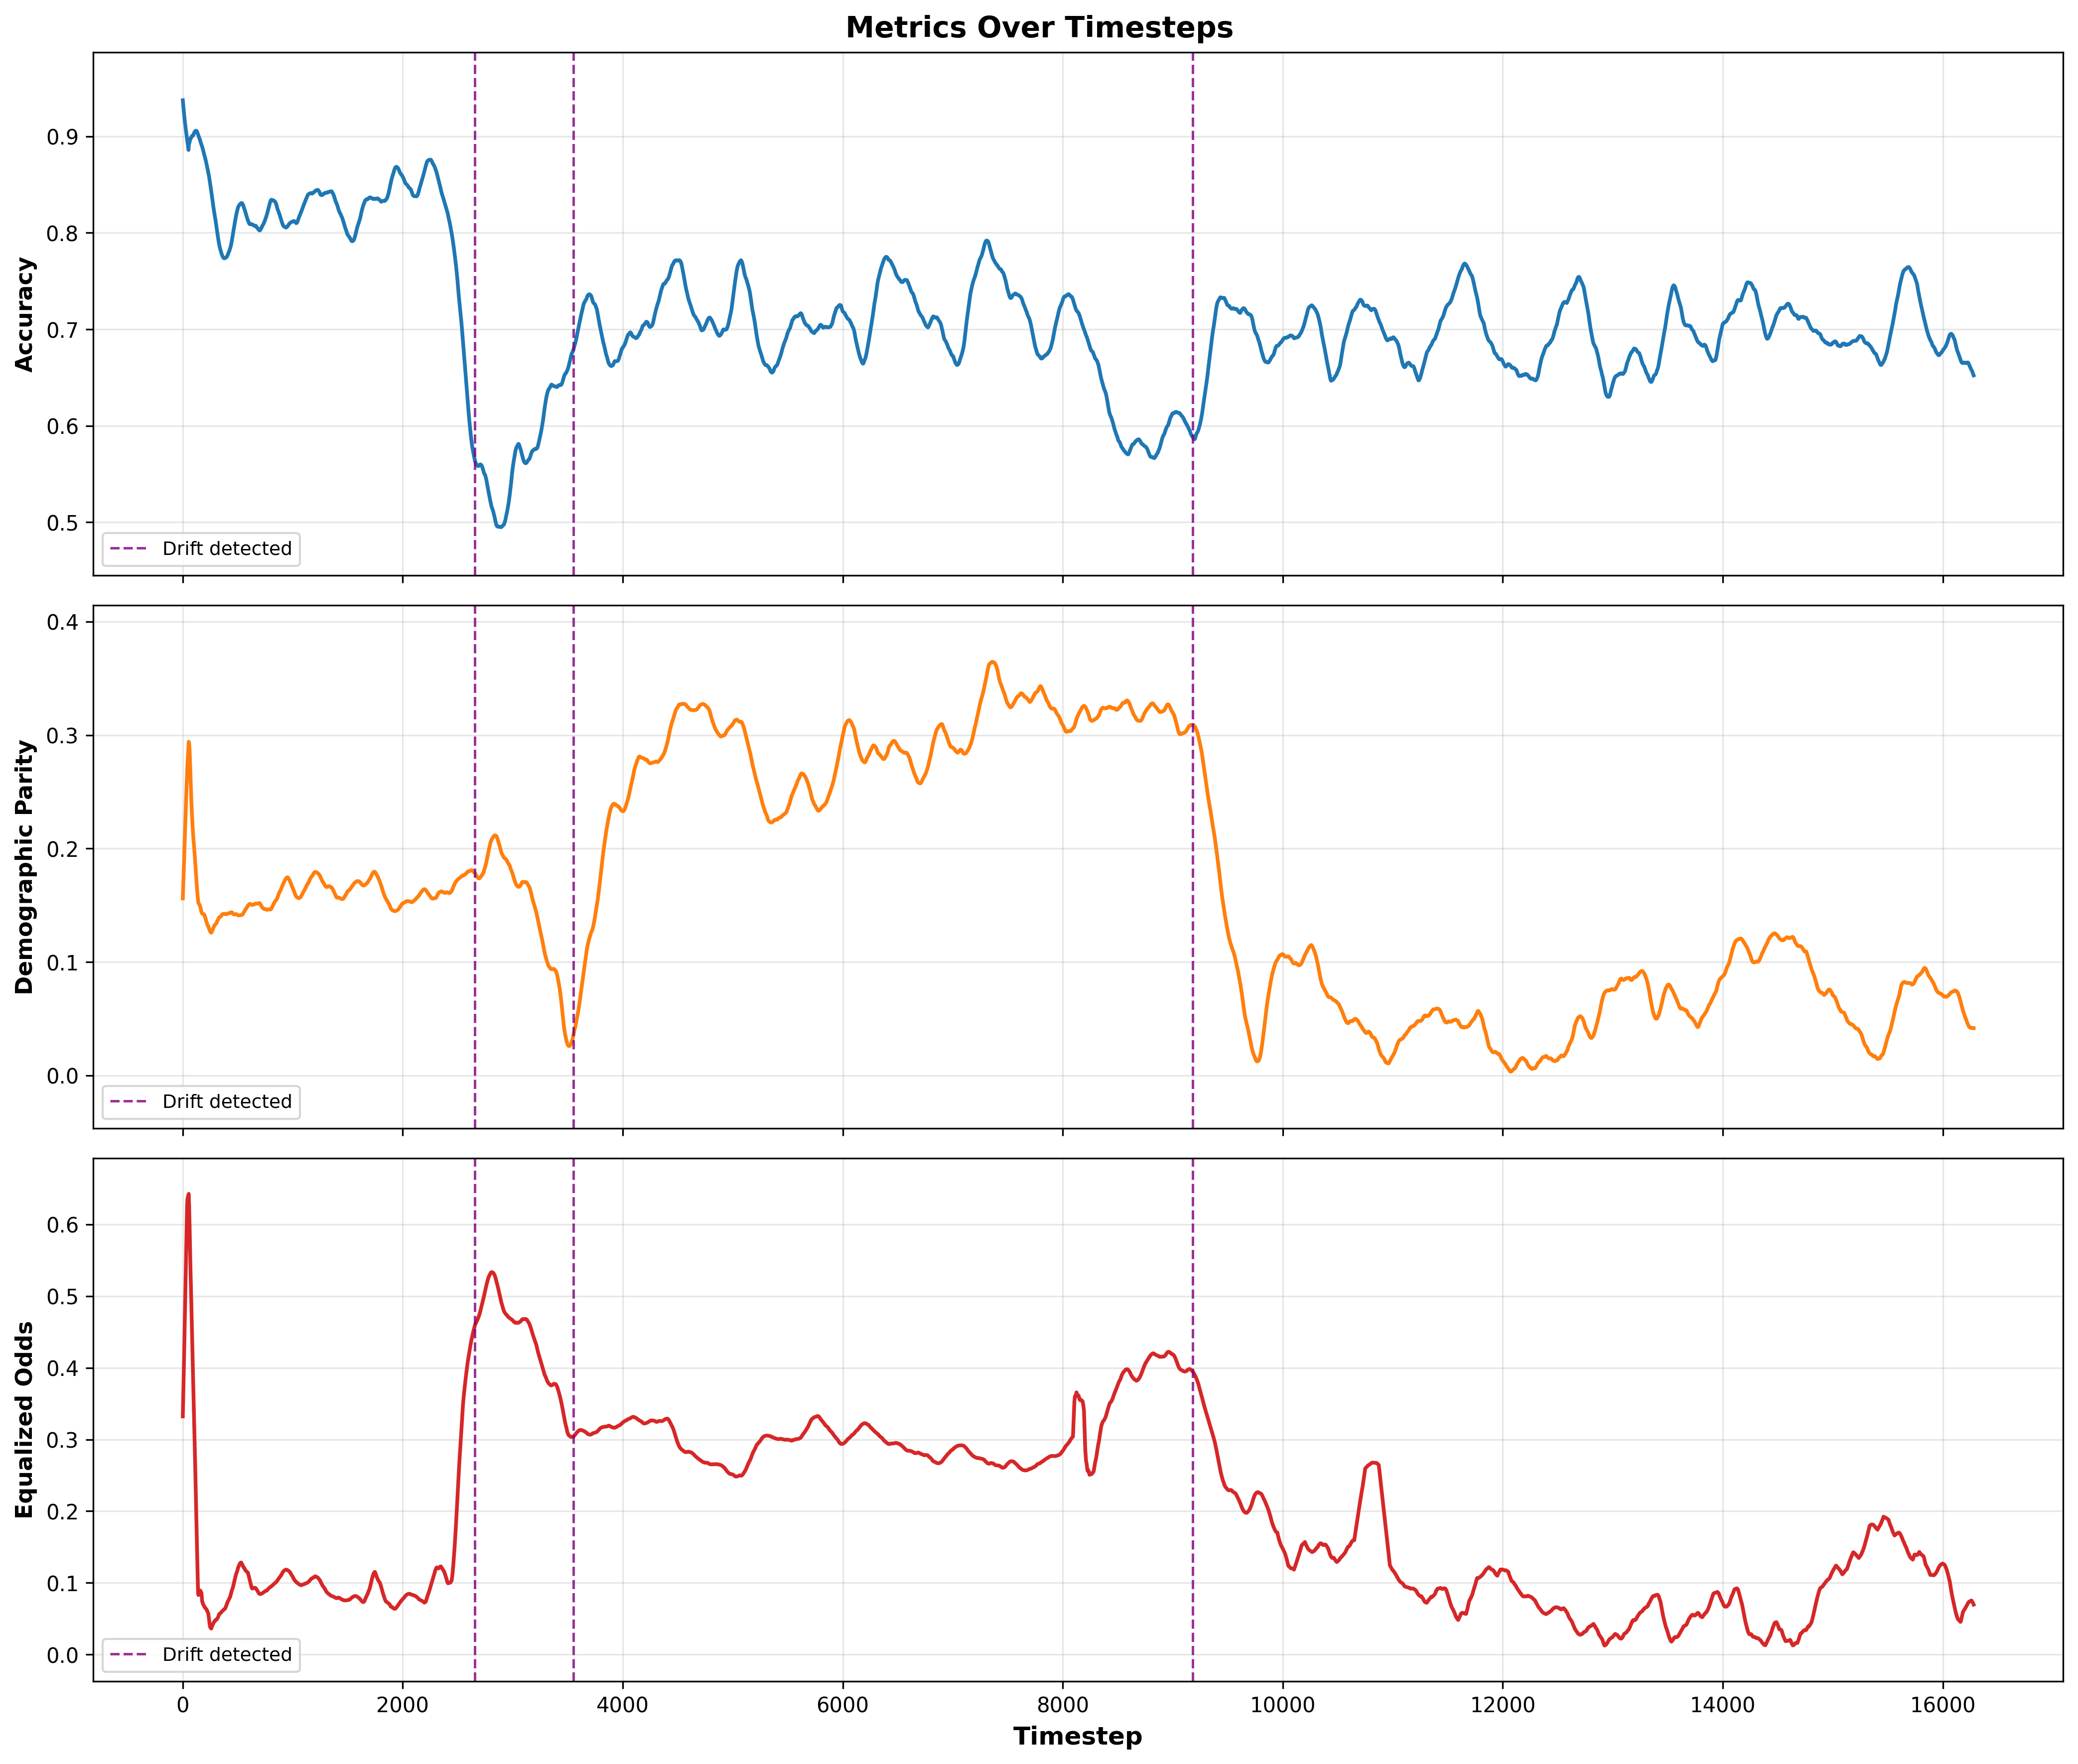
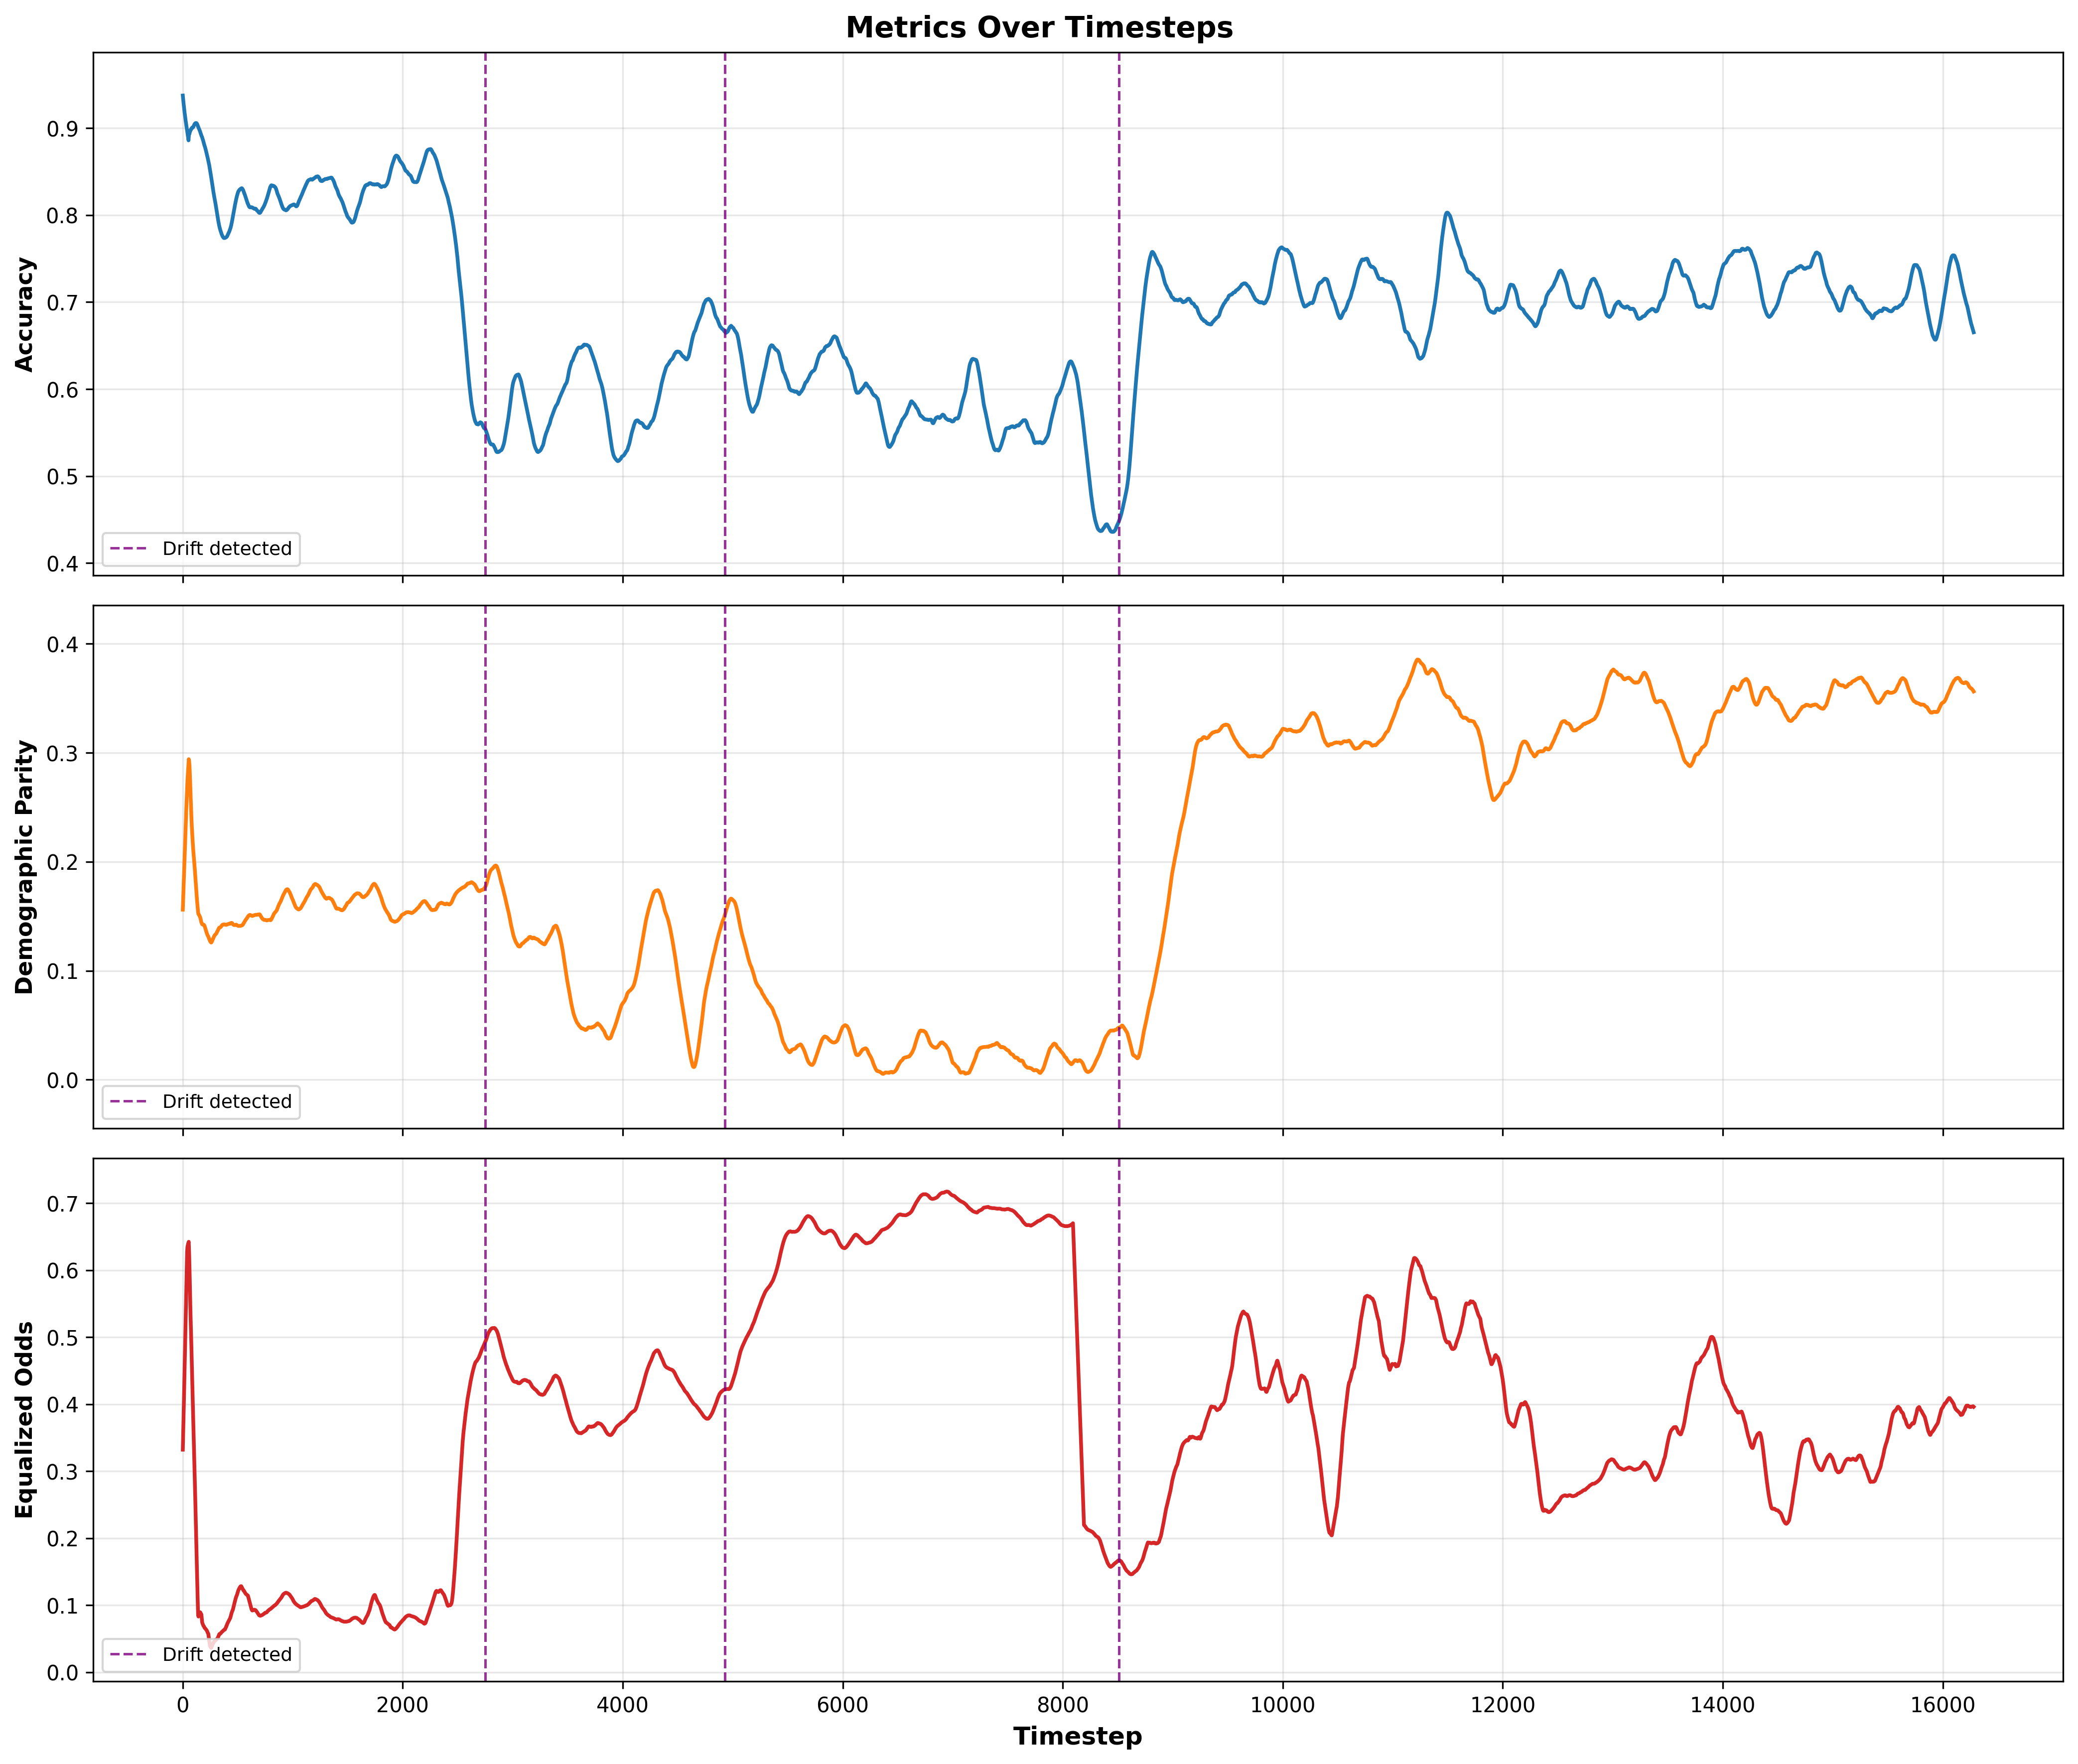
new pipeline

diff --git a/src/helpers/utils.py b/src/helpers/utils.py
@@ -268,9 +268,7 @@ def evaluate_over_timesteps(model, x_test, y_test, a_test, data_dim,
                             lambda_const=0.1, tree_depth=3, num_trees=3,
                             constraint_type='node', gradient_type='vanilla',
                             base_gamma=0.9,
-                            static_params=None,
-                            enable_nsga2_tuning=True,
-                            nsga2_config=None):
+                            static_params=None):
     accuracies = []
     dps = []
     eos = []
@@ -288,119 +286,19 @@ def evaluate_over_timesteps(model, x_test, y_test, a_test, data_dim,
         'lambda_const': float(lambda_const),
     }
     if static_params:
+        print("Overriding default static parameters with provided values:")
+        for key, value in static_params.items():
+            print(f"  {key}: {value}")
         defaults.update(static_params)
-
-    if enable_nsga2_tuning and test_then_train:
-        from src.helpers.nsga2_tuner import run_nsga2
-        search_cfg = {
-            'population_size': 8,
-            'generations': 4,
-            'sample_size': min(len(x_test), 800),
-            'seed': 42,
-            'target_drift_rate': 0.01,
-        }
-        if nsga2_config:
-            search_cfg.update(nsga2_config)
-        tune_n = max(1, int(search_cfg['sample_size']))
-
-        model_vars = list(getattr(model, 'variables', []))
-        if not model_vars:
-            model_vars = list(getattr(model, 'trainable_variables', []))
-
-        if model_vars:
-            trainable_count = len(list(getattr(model, 'trainable_variables', [])))
-            assert len(model_vars) >= trainable_count, (
-                f"NSGA2 snapshot coverage error: model.variables={len(model_vars)} "
-                f"< trainable_variables={trainable_count}"
-            )
-            base_state = [tf.identity(v) for v in model_vars]
-            assert len(base_state) == len(model_vars) and len(base_state) > 0, (
-                "NSGA2 snapshot initialization failed: invalid state size"
-            )
-            print(f"[NSGA2] Snapshotting {len(model_vars)} model variables.")
-            x_tune = x_test[:tune_n]
-            y_tune = y_test[:tune_n]
-            a_tune = a_test[:tune_n]
-
-            bounds = {
-                'adwin_delta_warn': (1e-6, 5e-3),
-                'adwin_delta_confirm': (5e-4, 5e-2),
-                'drift_lr_prewarm_mult': (1.0, 12.0),
-                'drift_lr_spike_mult': (2.0, 20.0),
-                'lr_decay_steps': (300.0, 6000.0),
-                'fairness_window': (100.0, 2000.0),
-                'cooldown': (20.0, 800.0),
-                'min_samples_per_stream': (10.0, 120.0),
-                'lambda_const': (0.0, 1.0),
-            }
-
-            def _objective(candidate):
-                candidate = dict(candidate)
-                candidate['lr_decay_steps'] = int(round(candidate['lr_decay_steps']))
-                candidate['fairness_window'] = int(round(candidate['fairness_window']))
-                candidate['cooldown'] = int(round(candidate['cooldown']))
-                candidate['min_samples_per_stream'] = int(round(candidate['min_samples_per_stream']))
-                for var, val in zip(model_vars, base_state):
-                    assert var.shape == val.shape and var.dtype == val.dtype, (
-                        f"NSGA2 restore mismatch for {getattr(var, 'name', 'var')}: "
-                        f"shape {var.shape} vs {val.shape}, dtype {var.dtype} vs {val.dtype}"
-                    )
-                    var.assign(val)
-                run = evaluate_over_timesteps(
-                    model, x_tune, y_tune, a_tune, data_dim=data_dim,
-                    test_then_train=True,
-                    learning_rate=learning_rate,
-                    accuracy_window=accuracy_window,
-                    compute_fairness=compute_fairness,
-                    fairness_type=fairness_type,
-                    lambda_const=lambda_const,
-                    tree_depth=tree_depth,
-                    num_trees=num_trees,
-                    constraint_type=constraint_type,
-                    gradient_type=gradient_type,
-                    base_gamma=base_gamma,
-                    static_params=candidate,
-                    enable_nsga2_tuning=False,
-                    nsga2_config=None,
-                )
-                window = min(100, len(run['accuracy']))
-                recent_acc = float(np.mean(run['accuracy'][-window:])) if window else 0.0
-                fairness_series = run['dp'] if fairness_type == 'dp' else run['eo']
-                recent_fair = float(np.mean(np.abs(fairness_series[-window:]))) if window else 0.0
-                drift_rate = float(len(run['drifted_points'])) / max(1, int(run['n_samples']))
-                drift_obj = abs(drift_rate - float(search_cfg['target_drift_rate']))
-                return (1.0 - recent_acc, recent_fair, drift_obj)
-
-            best_candidate, best_objective, _, _ = run_nsga2(
-                objective_fn=_objective,
-                bounds=bounds,
-                population_size=int(search_cfg['population_size']),
-                generations=int(search_cfg['generations']),
-                seed=int(search_cfg['seed']),
-            )
-            best_candidate['lr_decay_steps'] = int(round(best_candidate['lr_decay_steps']))
-            best_candidate['fairness_window'] = int(round(best_candidate['fairness_window']))
-            best_candidate['cooldown'] = int(round(best_candidate['cooldown']))
-            best_candidate['min_samples_per_stream'] = int(round(best_candidate['min_samples_per_stream']))
-            defaults.update(best_candidate)
-            for var, val in zip(model_vars, base_state):
-                assert var.shape == val.shape and var.dtype == val.dtype, (
-                    f"NSGA2 final restore mismatch for {getattr(var, 'name', 'var')}: "
-                    f"shape {var.shape} vs {val.shape}, dtype {var.dtype} vs {val.dtype}"
-                )
-                var.assign(val)
-            print(f"[NSGA2] Tuned params selected: {best_candidate} with objectives {best_objective}")
-        else:
-            print("[NSGA2] Model has no variables to snapshot; skipping tuner.")
 
     ADWIN_DELTA_WARN = float(defaults['adwin_delta_warn'])
     ADWIN_DELTA_CONFIRM = float(defaults['adwin_delta_confirm'])
     DRIFT_LR_PREWARM = learning_rate * float(defaults['drift_lr_prewarm_mult'])
     DRIFT_LR_SPIKE = learning_rate * float(defaults['drift_lr_spike_mult'])
-    LR_DECAY_STEPS = int(defaults['lr_decay_steps'])
-    FAIRNESS_WINDOW = int(defaults['fairness_window'])
-    COOLDOWN = int(defaults['cooldown'])
-    MIN_SAMPLES_PER_STREAM = int(defaults['min_samples_per_stream'])
+    LR_DECAY_STEPS = max(1, int(defaults['lr_decay_steps']))
+    FAIRNESS_WINDOW = max(1, int(defaults['fairness_window']))
+    COOLDOWN = max(0, int(defaults['cooldown']))
+    MIN_SAMPLES_PER_STREAM = max(1, int(defaults['min_samples_per_stream']))
     lambda_const = float(defaults['lambda_const'])
     print(f"Evaluating model over {len(x_test)} timesteps with test-then-train={test_then_train}\n\
           Fairness penalty lambda: {lambda_const}, fairness type: {fairness_type}")
@@ -533,6 +431,7 @@ def evaluate_over_timesteps(model, x_test, y_test, a_test, data_dim,
                         new_temp = min(1.0, current_temp + 0.002)
                         tree.temperature.assign(new_temp)
 
+        if test_then_train:
             y_t_tensor = tf.convert_to_tensor([y_t], dtype=tf.int32)
             with tf.GradientTape(persistent=compute_fairness) as tape:
                 train_out = model(x_t, training=True)
@@ -575,6 +474,17 @@ def evaluate_over_timesteps(model, x_test, y_test, a_test, data_dim,
         'eo': eos,
         'n_samples': n_samples,
         'drifted_points': drifted_points,
+        'static_params_used': {
+            'adwin_delta_warn': ADWIN_DELTA_WARN,
+            'adwin_delta_confirm': ADWIN_DELTA_CONFIRM,
+            'drift_lr_prewarm_mult': float(defaults['drift_lr_prewarm_mult']),
+            'drift_lr_spike_mult': float(defaults['drift_lr_spike_mult']),
+            'lr_decay_steps': LR_DECAY_STEPS,
+            'fairness_window': FAIRNESS_WINDOW,
+            'cooldown': COOLDOWN,
+            'min_samples_per_stream': MIN_SAMPLES_PER_STREAM,
+            'lambda_const': lambda_const,
+        },
     }
 
 

diff --git a/src/forest/train.py b/src/forest/train.py
@@ -91,6 +91,92 @@ def _load_prequential_nsga2_config():
     cfg['fairness_type'] = 'dp'
   return cfg
 
+
+def _tune_prequential_static_params(base_model, x_stream, y_stream, a_stream, data_dim,
+                                    compute_fairness, lambda_const, depth, num_trees,
+                                    constraint_type, gradient_type, base_gamma, preq_cfg):
+  if not bool(preq_cfg['enabled']):
+    return None
+  if x_stream is None or len(x_stream) == 0:
+    return None
+  print("\nRunning NSGA-II tuning on training stream...")
+  from src.helpers.nsga2_tuner import run_nsga2
+  import copy
+  model = copy.deepcopy(base_model)
+  tune_n = min(len(x_stream), int(preq_cfg['sample_size']))
+  x_tune = x_stream[:tune_n]
+  y_tune = y_stream[:tune_n]
+  a_tune = a_stream[:tune_n]
+
+  model_vars = list(getattr(model, 'variables', [])) or list(getattr(model, 'trainable_variables', []))
+  if not model_vars:
+    print("[NSGA2] Model has no variables to snapshot; skipping tuner.")
+    return None
+  base_state = [v.numpy().copy() for v in model_vars]
+
+  bounds = {
+      'adwin_delta_warn': (1e-6, 5e-3),
+      'adwin_delta_confirm': (5e-4, 5e-2),
+      'drift_lr_prewarm_mult': (1.0, 12.0),
+      'drift_lr_spike_mult': (0.0, 20.0),
+      'lr_decay_steps': (1.0, 6000.0),
+      'fairness_window': (1.0, 2000.0),
+      'cooldown': (0.0, 800.0),
+      'min_samples_per_stream': (1.0, 120.0),
+      'lambda_const': (0.0, 10.0),
+  }
+
+  def _restore_state():
+    for var, value in zip(model_vars, base_state):
+      var.assign(value)
+
+  def _objective(candidate):
+    candidate = dict(candidate)
+    candidate['lr_decay_steps'] = int(round(candidate['lr_decay_steps']))
+    candidate['fairness_window'] = int(round(candidate['fairness_window']))
+    candidate['cooldown'] = int(round(candidate['cooldown']))
+    candidate['min_samples_per_stream'] = int(round(candidate['min_samples_per_stream']))
+    _restore_state()
+    run = utils.evaluate_over_timesteps(
+        model, x_tune, y_tune, a_tune, data_dim=data_dim,
+        test_then_train=True,
+        compute_fairness=compute_fairness,
+        fairness_type=preq_cfg['fairness_type'],
+        lambda_const=lambda_const,
+        tree_depth=depth,
+        num_trees=num_trees,
+        constraint_type=constraint_type,
+        gradient_type=gradient_type,
+        base_gamma=base_gamma,
+        static_params=candidate,
+    )
+    window = min(100, len(run['accuracy']))
+    if window:
+      recent_acc = float(sum(run['accuracy'][-window:]) / window)
+      fairness_series = run['dp'] if preq_cfg['fairness_type'] == 'dp' else run['eo']
+      recent_fair = float(sum(abs(v) for v in fairness_series[-window:]) / window)
+    else:
+      recent_acc = 0.0
+      recent_fair = 0.0
+    drift_rate = float(len(run['drifted_points'])) / max(1, int(run['n_samples']))
+    drift_obj = abs(drift_rate - float(preq_cfg['target_drift_rate']))
+    return (1.0 - recent_acc, recent_fair, drift_obj)
+
+  best_candidate, best_objective, _, _ = run_nsga2(
+      objective_fn=_objective,
+      bounds=bounds,
+      population_size=int(preq_cfg['population_size']),
+      generations=int(preq_cfg['generations']),
+      seed=int(preq_cfg['seed']),
+  )
+  best_candidate['lr_decay_steps'] = int(round(best_candidate['lr_decay_steps']))
+  best_candidate['fairness_window'] = int(round(best_candidate['fairness_window']))
+  best_candidate['cooldown'] = int(round(best_candidate['cooldown']))
+  best_candidate['min_samples_per_stream'] = int(round(best_candidate['min_samples_per_stream']))
+  _restore_state()
+  print(f"[NSGA2] Tuned params selected: {best_candidate} with objectives {best_objective}")
+  return best_candidate
+
 def train(
     dataset='civil',
     lambda_const=1,
@@ -193,14 +279,7 @@ def train(
                 constraint_type=constraint_type,
                 gradient_type=gradient_type,
                 base_gamma=base_gamma,
-                enable_nsga2_tuning=bool(preq_cfg['enabled']),
-                nsga2_config={
-                    'population_size': int(preq_cfg['population_size']),
-                    'generations': int(preq_cfg['generations']),
-                    'sample_size': int(preq_cfg['sample_size']),
-                    'seed': int(preq_cfg['seed']),
-                    'target_drift_rate': float(preq_cfg['target_drift_rate']),
-                },
+                static_params=None,
             )
             plot_metrics_over_timesteps(preq_results,
                                         save_path='files/metrics_prequential.png')
@@ -370,14 +449,7 @@ def train(
           constraint_type=constraint_type,
           gradient_type=gradient_type,
           base_gamma=base_gamma,
-          enable_nsga2_tuning=bool(preq_cfg['enabled']),
-          nsga2_config={
-              'population_size': int(preq_cfg['population_size']),
-              'generations': int(preq_cfg['generations']),
-              'sample_size': int(preq_cfg['sample_size']),
-              'seed': int(preq_cfg['seed']),
-              'target_drift_rate': float(preq_cfg['target_drift_rate']),
-          },
+          static_params=None,
       )
       plot_metrics_over_timesteps(preq_results,
                                   save_path='files/metrics_prequential.png')

diff --git a/src/helpers/plots.py b/src/helpers/plots.py
@@ -107,7 +107,7 @@ def plot_aranyani_vs_arf(aranyani_results, arf_results, save_path,
         ax.plot(timesteps, aran_vals, color='tab:blue',   linewidth=1.8, label='Aranyani')
         ax.plot(timesteps, arf_vals,  color='tab:orange', linewidth=1.8,
                 linestyle='--', label='ARF')
-        fair_arf_results = None
+        #fair_arf_results = None
         if fair_arf_results is not None:
             fair_vals = _smooth(
                 np.array(fair_arf_results[key][plot_start:], dtype=float),